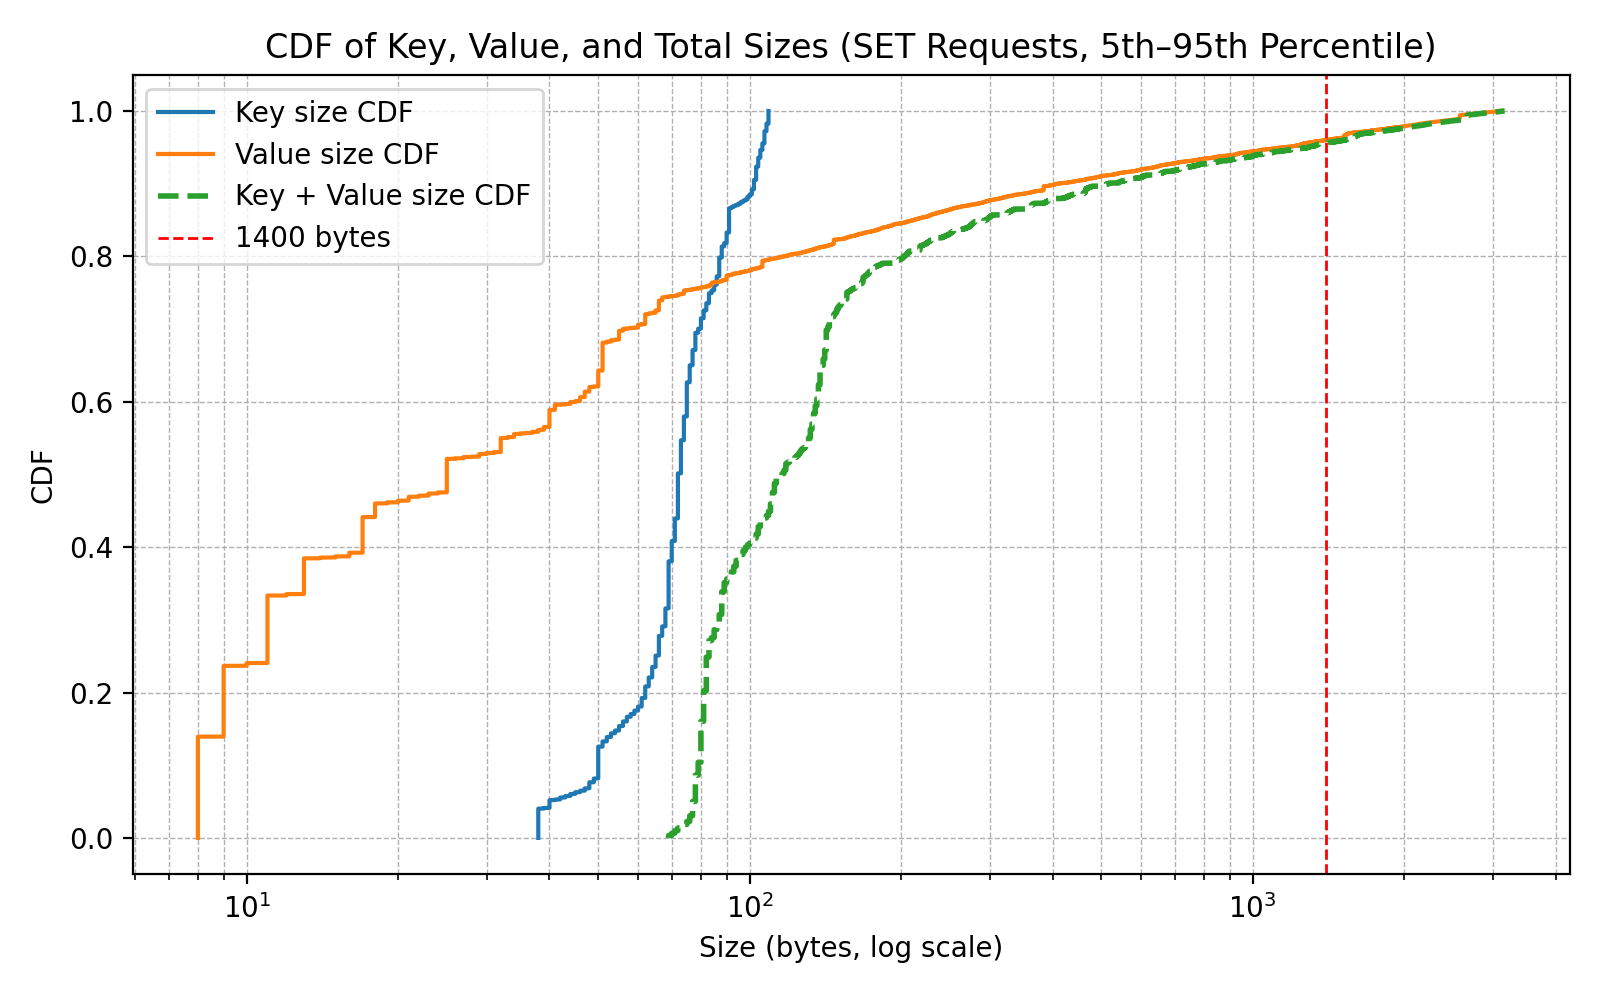
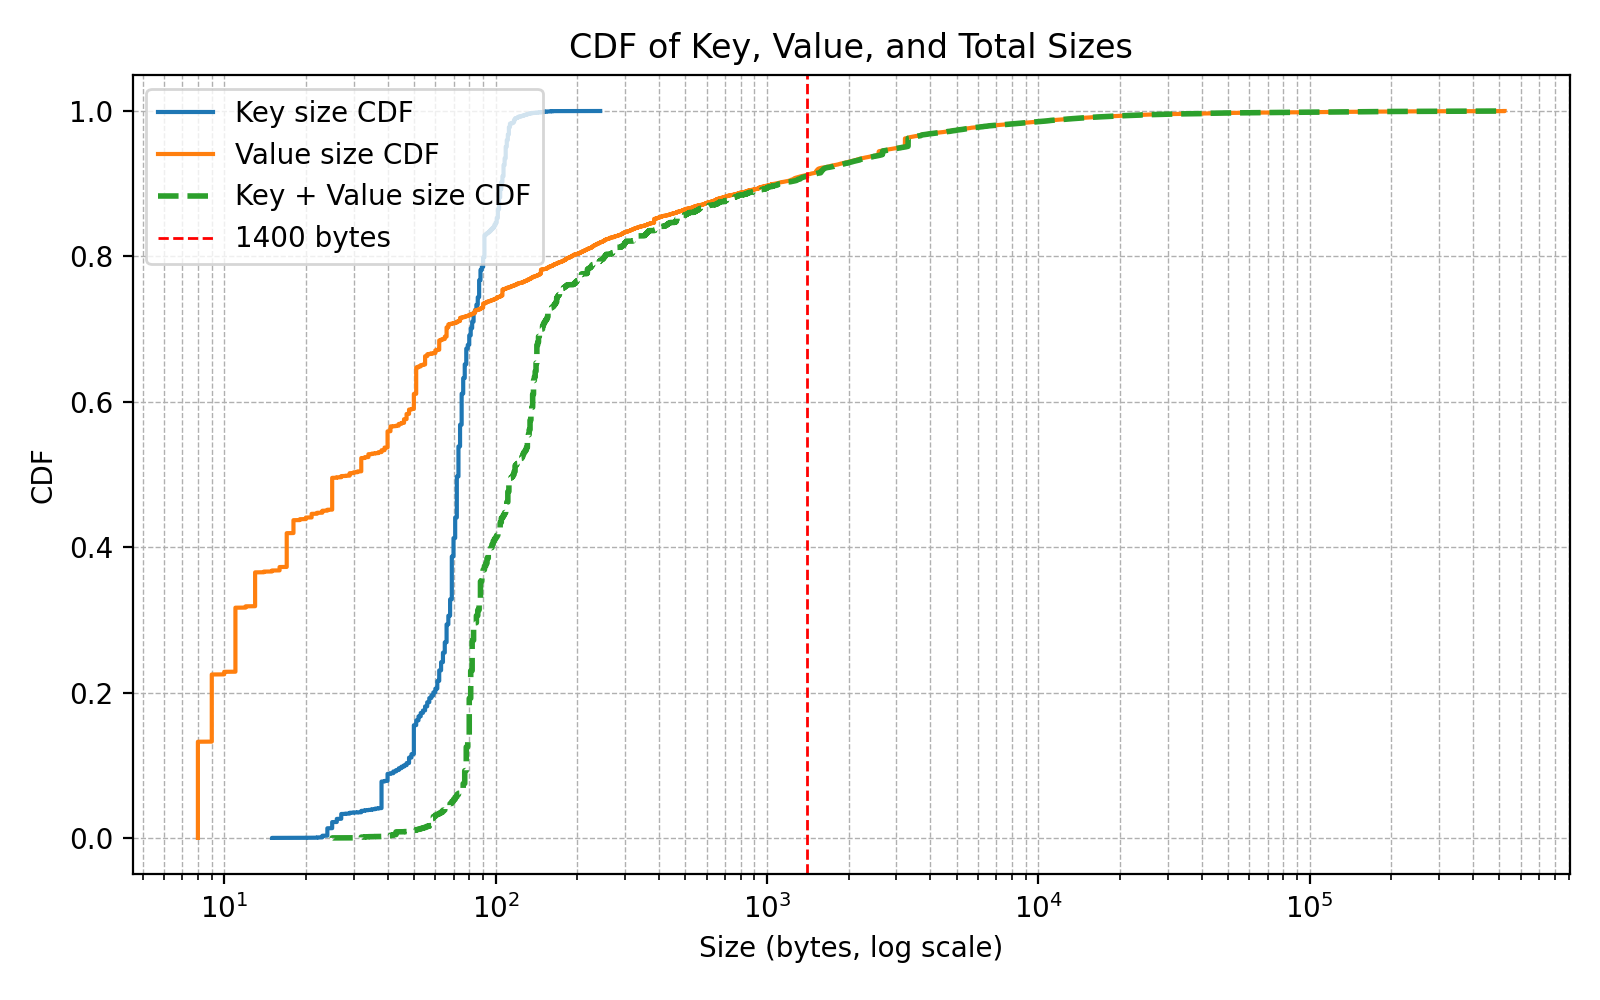
Update cache trace script

diff --git a/benchmark/cache-trace/trace_stats.py b/benchmark/cache-trace/trace_stats.py
@@ -34,9 +34,9 @@ def main():
     value_sizes = np.array(value_sizes)
     total_sizes = key_sizes + value_sizes  # combined size
 
-    # Remove top and bottom 5%
+    # Remove top and bottom x%
     def trim_outliers(data):
-        low, high = np.percentile(data, [5, 95])
+        low, high = np.percentile(data, [0, 100])
         trimmed = data[(data >= low) & (data <= high)]
         print(f"Trimmed to {len(trimmed)} values (5th–95th percentile range: {low:.2f}–{high:.2f})")
         return trimmed
@@ -67,7 +67,7 @@ def main():
     plt.xscale("log")
     plt.xlabel("Size (bytes, log scale)")
     plt.ylabel("CDF")
-    plt.title("CDF of Key, Value, and Total Sizes (SET Requests, 5th–95th Percentile)")
+    plt.title("CDF of Key, Value, and Total Sizes")
     plt.legend(loc="upper left") 
     plt.grid(True, which="both", linestyle="--", linewidth=0.5)
     plt.tight_layout()
